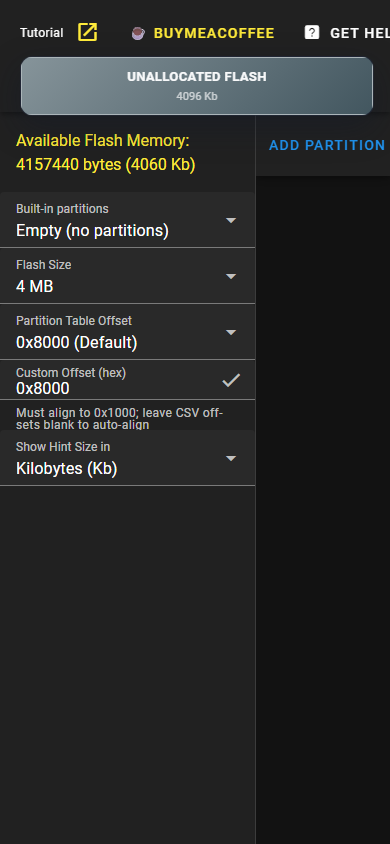
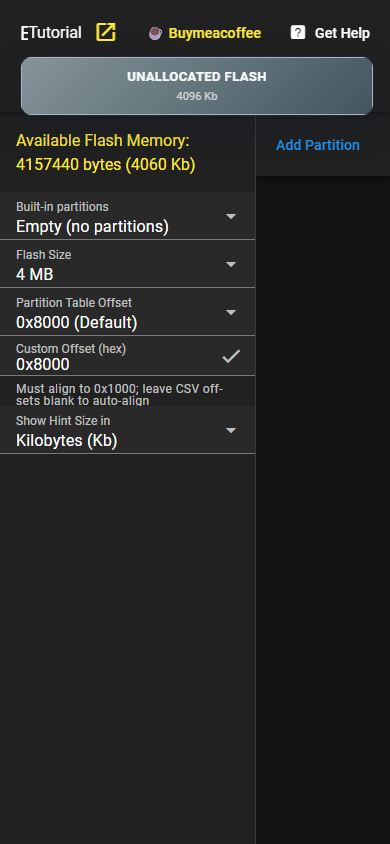
upgrade vuetify

diff --git a/src/components/PartitionEditor.vue b/src/components/PartitionEditor.vue
@@ -43,11 +43,11 @@
             </v-list>
           </v-menu>
         </v-btn>
-        <v-btn data-testid="load-csv-button" color="primary" @click="loadCSV" dense class="mr-2">Load CSV
+        <v-btn data-testid="load-csv-button" color="primary" @click="loadCSV" density="comfortable" class="mr-2">Load CSV
           <v-tooltip activator="parent" location="top">Load a CSV partition file</v-tooltip>
         </v-btn>
         <input data-testid="csv-file-input" type="file" ref="fileInput" @change="handleFileUpload" style="display: none;" accept=".csv" />
-        <v-btn data-testid="download-csv-button" color="primary" type="submit" dense
+        <v-btn data-testid="download-csv-button" color="primary" type="submit" density="comfortable"
           :disabled="store.partitionTables.getPartitions().length == 0">Download
           CSV
           <v-tooltip activator="parent" location="top">Download partitions as a CSV file</v-tooltip>
@@ -74,7 +74,7 @@
           </div>
           <span class="partition__size">{{ store.hintDisplaySize(partition.size) }}</span>
         </div>
-        <v-row dense>
+        <v-row density="comfortable">
           <v-col>
             <v-text-field v-model="partition.name" label="Name" density="compact"
               :rules="[partitionNameRule(partition.name, index)]"></v-text-field>
@@ -85,7 +85,7 @@
           </v-col>
           <v-col>
             <v-select readonly v-model="partition.subtype" :items="getSubtypes(partition.type)" label="Subtype"
-              density="compact" dense></v-select>
+              density="compact"></v-select>
           </v-col>
           <v-col>
             <v-text-field readonly v-model.number="partition.size" label="Size (bytes)" density="compact"
@@ -113,7 +113,7 @@
         <v-slider :color="partitionAccentColor(partition, index)"
           :track-color="partitionAccentTrackColor(partition, index)" v-model="partition.size" thumb-label label="Size"
           :disabled="partition.subtype === 'ota_0' && store.partitionTables.hasOTAPartitions()"
-          :max="store.partitionTables.getTotalMemory()" @end="updateSize(partition)" dense hide-details
+          :max="store.partitionTables.getTotalMemory()" @end="updateSize(partition)" density="comfortable" hide-details
           :step="stepSize(partition)" :min="stepSize(partition)">
           <template v-slot:prepend>
             <v-tooltip location="top">

diff --git a/src/App.vue b/src/App.vue
@@ -27,9 +27,9 @@
         </div>
       </div>
       <v-select data-testid="built-in-partitions-select" v-model="selectedPartitionSet" :items="partitionOptions" item-value="value" item-title="text"
-        label="Built-in partitions" dense hide-details></v-select>
+        label="Built-in partitions" density="comfortable" hide-details></v-select>
       <v-select data-testid="flash-size-select" v-model="store.flashSize" :items="FLASH_SIZES" item-value="value" item-title="text" label="Flash Size"
-        dense hide-details @update:model-value="changeFlashSize"></v-select>
+        density="comfortable" hide-details @update:model-value="changeFlashSize"></v-select>
       <v-select
         data-testid="partition-table-offset-select"
         v-model="store.partitionTableOffset"
@@ -37,7 +37,7 @@
         item-value="value"
         item-title="text"
         label="Partition Table Offset"
-        dense
+        density="comfortable"
         hide-details
         @update:model-value="changePartitionTableOffset"
       ></v-select>
@@ -55,7 +55,7 @@
         @change="applyCustomPartitionTableOffset($event)"
       ></v-text-field>
       <v-select data-testid="display-size-select" v-model="store.displaySizes" :items="DISPLAY_SIZES" item-value="value" item-title="text"
-        label="Show Hint Size in" dense hide-details></v-select>
+        label="Show Hint Size in" density="comfortable" hide-details></v-select>
       <div v-if="store.partitionTables.hasOTAPartitions() && store.partitionTables.hasSubtype(PARTITION_NVS)" class="pl-2 pt-4">
         <v-icon color="green-darken-2" icon="mdi-wifi" size="large"></v-icon>
         Over the air update capability

diff --git a/CHANGELOG.md b/CHANGELOG.md
@@ -5,6 +5,7 @@
 - Added Playwright end-to-end tests for app rendering, partition workflows, CSV import/export, and OTA warnings.
 - Added Playwright visual snapshot tests for desktop, mobile, menu, and dialog layouts.
 - Upgraded Vite, @vue/tsconfig, and vue-router.
+- Upgraded Vuetify to v4 and replaced deprecated dense props with density settings.
 
 ## 1.2.1
 - The app now accepts a URL for flash size and partitions info for integration with ESPConnect and the Arduino Maker Workshop extension for VSCode. 